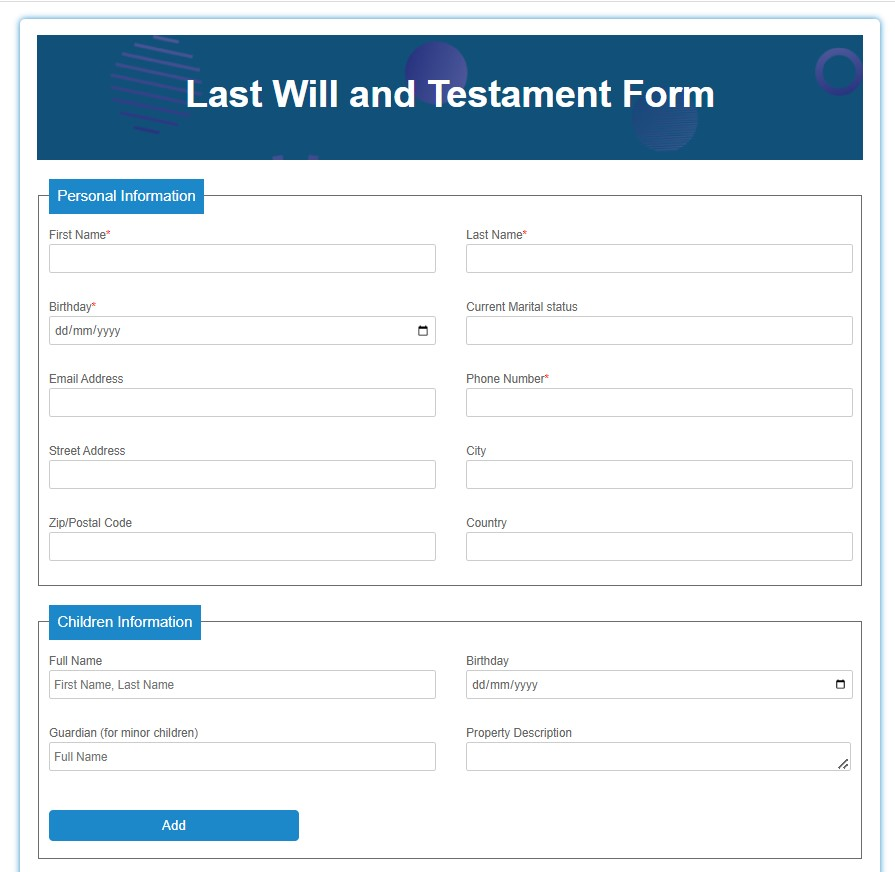
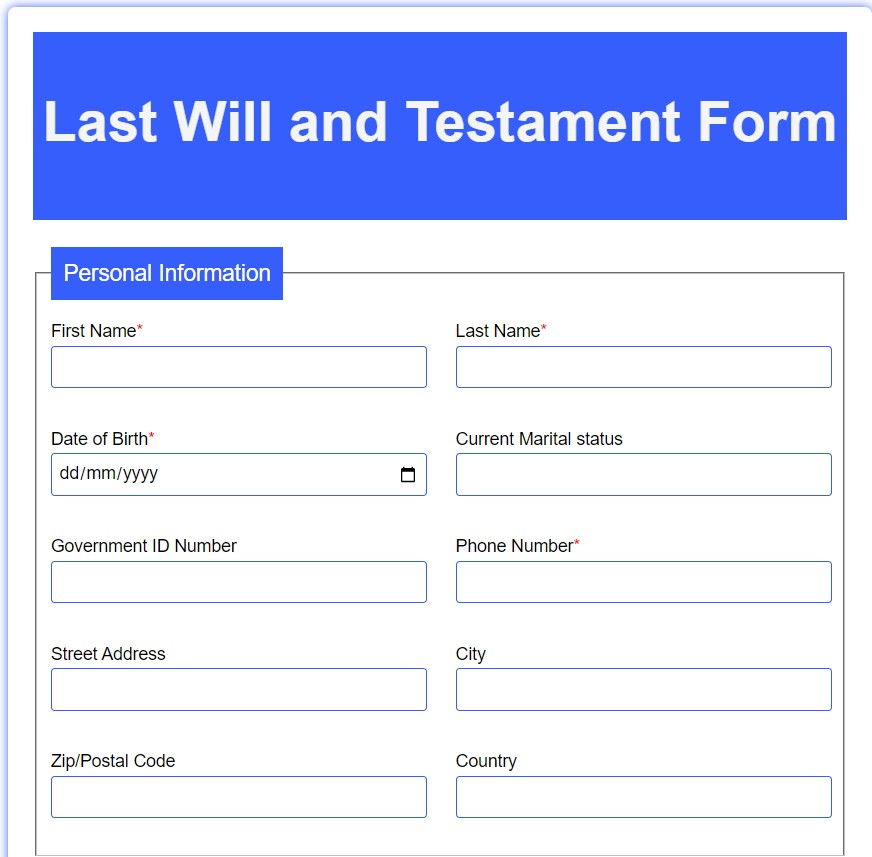
font&Form updates

diff --git a/css/formCss.css b/css/formCss.css
@@ -15,7 +15,7 @@ label {
   outline: none;
   font-family: Roboto, Arial, sans-serif;
   font-size: 14px;
-  color: #666;
+  color:black;
   line-height: 22px;
   size: 50px;
 }
@@ -36,7 +36,7 @@ legend {
   font-family: Roboto, Arial, sans-serif;
   font-size: 18px;
   color: #fff;
-  background-color: #1c87c9;
+  background-color: #355EFC;
 }
 
 textarea {
@@ -55,22 +55,22 @@ form {
   padding: 20px;
   border-radius: 6px;
   background: #fff;
-  box-shadow: 0 0 8px #1c87c9;
+  box-shadow: 0 0 8px #355EFC;
 }
 .banner {
   position: relative;
   height: 150px;
-  background-color: #1c87c9;
+  background-color: #f9fafb;
   background-size: cover;
   display: flex;
   justify-content: center;
   align-items: center;
   text-align: center;
-  background-image: url("img\Formlogo.png");
+
 }
 .banner::after {
   content: "";
-  background-color: rgba(0, 0, 0, 0.4);
+  background-color: #355EFC;
   position: absolute;
   width: 100%;
   height: 100%;
@@ -79,7 +79,7 @@ input,
 select,
 textarea {
   margin-bottom: 10px;
-  border: 1px solid #ccc;
+  border: 1px solid #355EFC;
   border-radius: 3px;
 }
 input {
@@ -193,13 +193,13 @@ button {
   padding: 10px;
   border: none;
   border-radius: 5px;
-  background: #1c87c9;
+  background: #355EFC;
   font-size: 16px;
   color: #fff;
   cursor: pointer;
 }
 button:hover {
-  background: green;
+  background: rgb(132, 132, 247);
 }
 @media (min-width: 568px) {
   .name-item,
@@ -271,5 +271,6 @@ button:hover {
     border: 1px solid;
     padding: 5px;
     width: auto;
+    color:#355EFC;
   }
 }

diff --git a/form.html b/form.html
@@ -11,6 +11,7 @@
     <form action="confirm.php" method="post" id="fillform">
       <div class="banner">
         <h3 style="color: azure;">Last Will and Testament Form</h3>
+        <h1 style="color: whitesmoke;">Last Will and Testament Form</h1>
       </div>
       <br />
       <fieldset id="PInfo">
